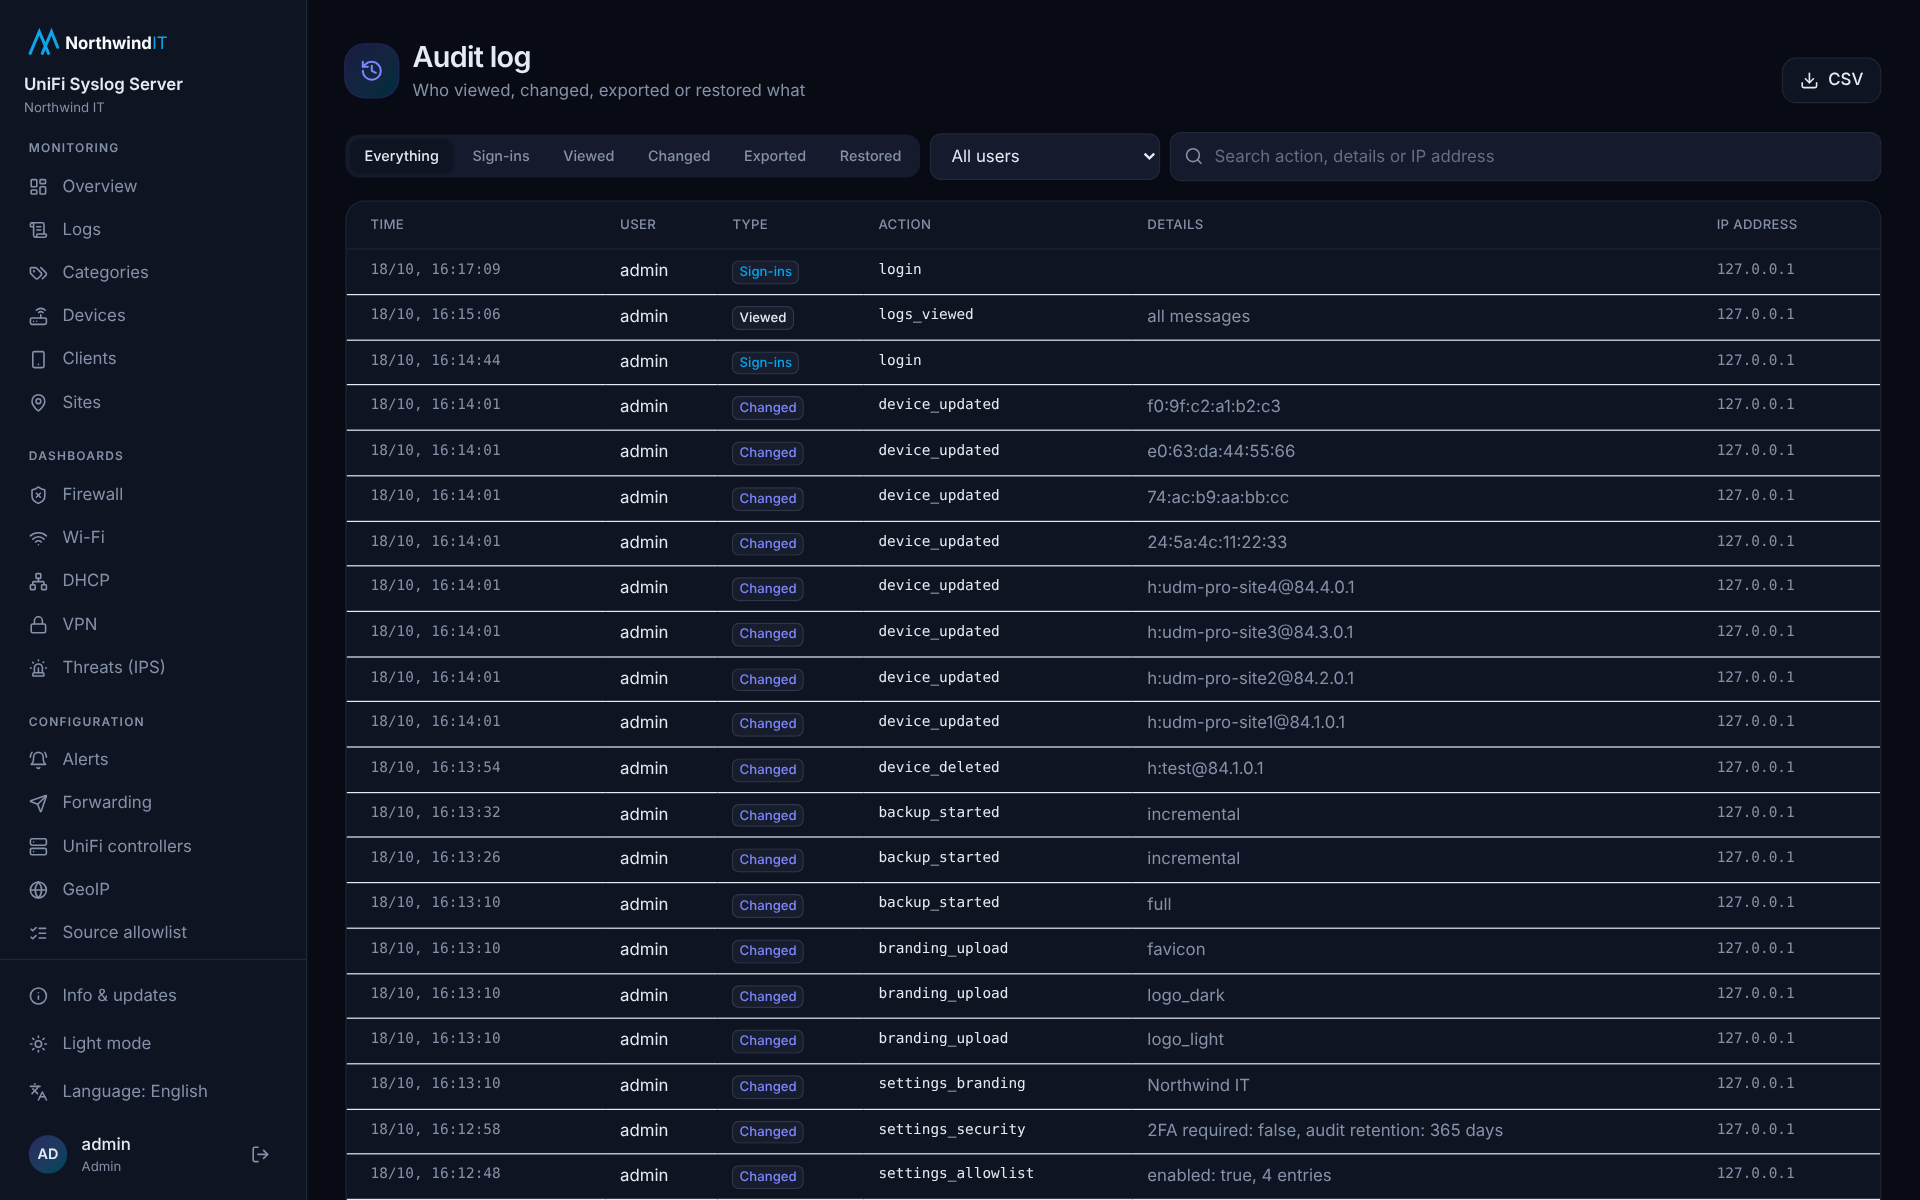
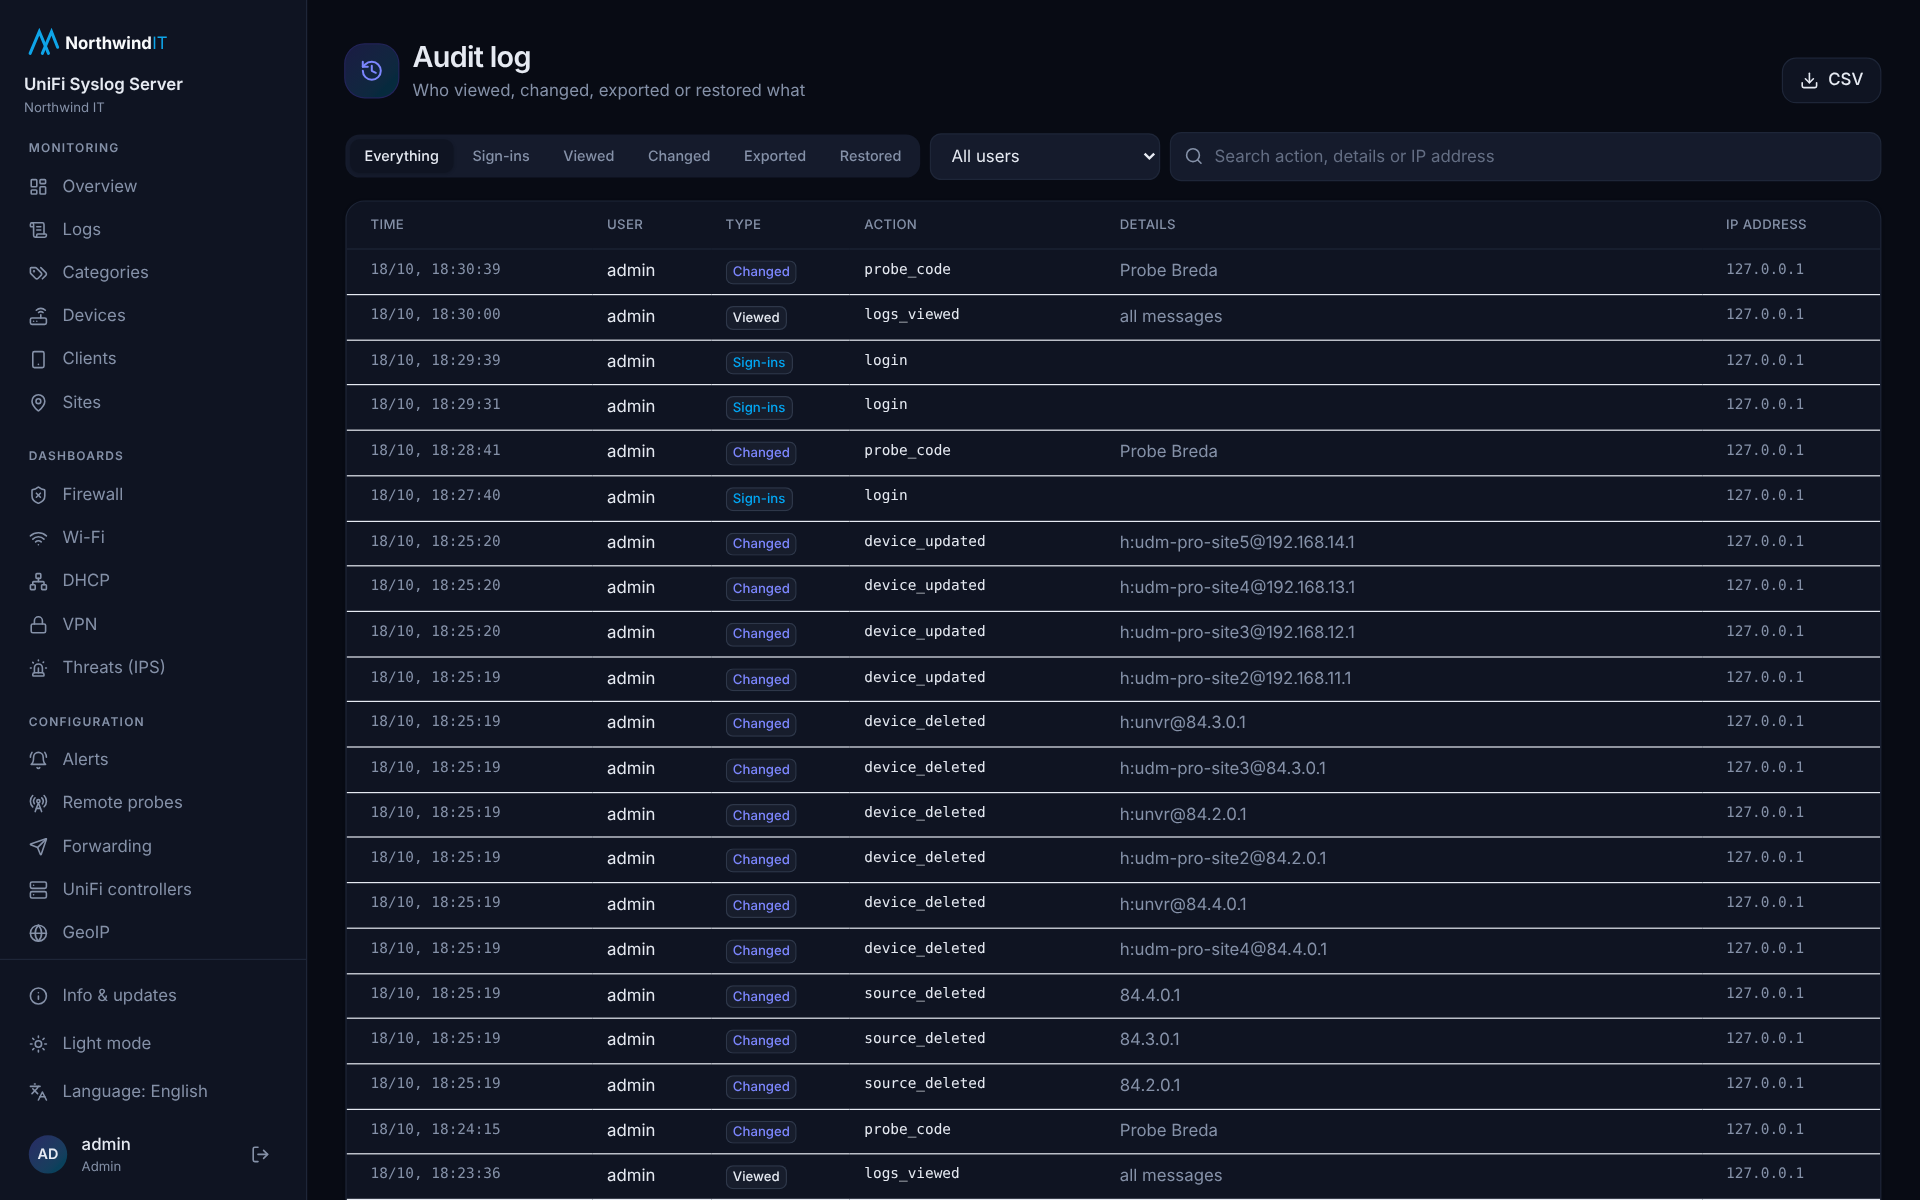
README: remote probes with screenshots, refresh all screenshots
Adds screenshots of the Remote probes page, the install dialog and the
probe's own web page, an installation pointer and the probe command line,
and retakes every screenshot so the menu shows Remote probes.

Claude-Session: https://claude.ai/code/session_01B3npEG5xe1oDYF5cGAvGyE

diff --git a/README.md b/README.md
@@ -18,7 +18,7 @@ A central syslog server built specifically for UniFi. All UniFi sites send their
 
 **Look and search**
 
-- **Overview dashboard**: messages per category, blocked traffic and threats per country, blocked sources and ports, IPS signatures, Wi-Fi clients, SSIDs, DHCP clients, devices and sites. Click through to the logs.
+- **Overview dashboard**: messages per category, blocked traffic and threats per country, blocked sources and ports, IPS signatures, Wi-Fi clients, SSIDs, DHCP clients, devices, sites and the status of the remote probes. Click through to the logs.
 - **Ready-made dashboards**: Firewall, Wi-Fi (roaming and connection problems), DHCP, VPN (WireGuard, Teleport and site-to-site) and Threats (IPS), each filterable per site and period.
 - **Search**: a dedicated [query language](#query-language) with fields, CIDR, ranges and wildcards, a histogram, live tail, and export to CSV and JSON.
 - **Categories**: your own categories (a saved search with a color) to filter logs, with counters on the Categories page.
@@ -123,11 +123,17 @@ curl -fsSL https://raw.githubusercontent.com/rhisijmuiden/unifi-syslog-server/ma
 
 For a **Raspberry Pi** (3, 4, 5 or Zero 2 W), write `unify-syslog-probe-rpi-arm64.img.xz` from the release with Raspberry Pi Imager. Put the key in `uss-probe.txt` on the boot partition, or paste it on the probe's web page at `http://<pi>:8080`.
 
-The Remote probes page shows the status, rate, buffer, devices and resources of every probe, and the main server can email you when a probe goes offline or its buffer fills up. Probes are updated through the main server, automatically to the server's version or by hand, and roll back by themselves when an update fails. See [docs/PROBES.md](docs/PROBES.md) for all details, including how to use your own HTTPS certificate.
+![Remote probes page](docs/screenshots/probes.png)
+
+The Remote probes page shows the status, rate, buffer, devices and resources of every probe, and the main server can email you when a probe goes offline or its buffer fills up. Probes are updated through the main server, automatically to the server's version or by hand, and roll back by themselves when an update fails. The overview dashboard shows a summary of all probes as well. See [docs/PROBES.md](docs/PROBES.md) for all details, including how to use your own HTTPS certificate.
+
+| | |
+|---|---|
+| ![Installing a probe](docs/screenshots/probes-install.png)<br>**Add probe** shows the enrollment key with ready-to-paste commands for the Proxmox LXC, Debian 13 and the Raspberry Pi image. | ![The probe's own web page](docs/screenshots/probe-page.png)<br>**The probe's own page** on port 8080 shows its connection, rate, buffer, devices and disk. All settings are managed on the main server. |
 
 ## Feature tour
 
-The screenshots show simulated UniFi traffic from four sites (`unify-syslog simulate`), with the *Northwind IT* branding as an example.
+The screenshots show simulated UniFi traffic from five sites (`unify-syslog simulate`), four of them through remote probes, with the *Northwind IT* branding as an example.
 
 ### Dashboards
 
@@ -197,6 +203,10 @@ You can adjust its behavior with these environment variables:
 | `USS_CH_MEMORY_RATIO=0.5` | Sets the share of RAM that ClickHouse may use. |
 
 Then open `http://<server>:8080`.
+
+### Remote probe
+
+A probe for a remote location has its own Proxmox LXC script, Debian 13 installer and Raspberry Pi image; all of them need an enrollment key from the main server. See [Remote probes](#remote-probes) and [docs/PROBES.md](docs/PROBES.md).
 
 ### Files
 
@@ -318,6 +328,16 @@ unify-syslog update [--check]           # update to the latest release on the co
 unify-syslog update rollback [version]  # go back to a kept previous version
 unify-syslog simulate --target 127.0.0.1:514 --rate 500 --sites 3   # test traffic
 unify-syslog version
+```
+
+On a remote probe:
+
+```bash
+unify-syslog-probe status               # connection, buffer and version
+unify-syslog-probe enroll '<key>'       # enroll with a key from the main server
+unify-syslog-probe setup                # ask for the key and enroll
+unify-syslog-probe reset                # forget the enrollment (the buffer is kept)
+unify-syslog-probe version
 ```
 
 ## Building from source
